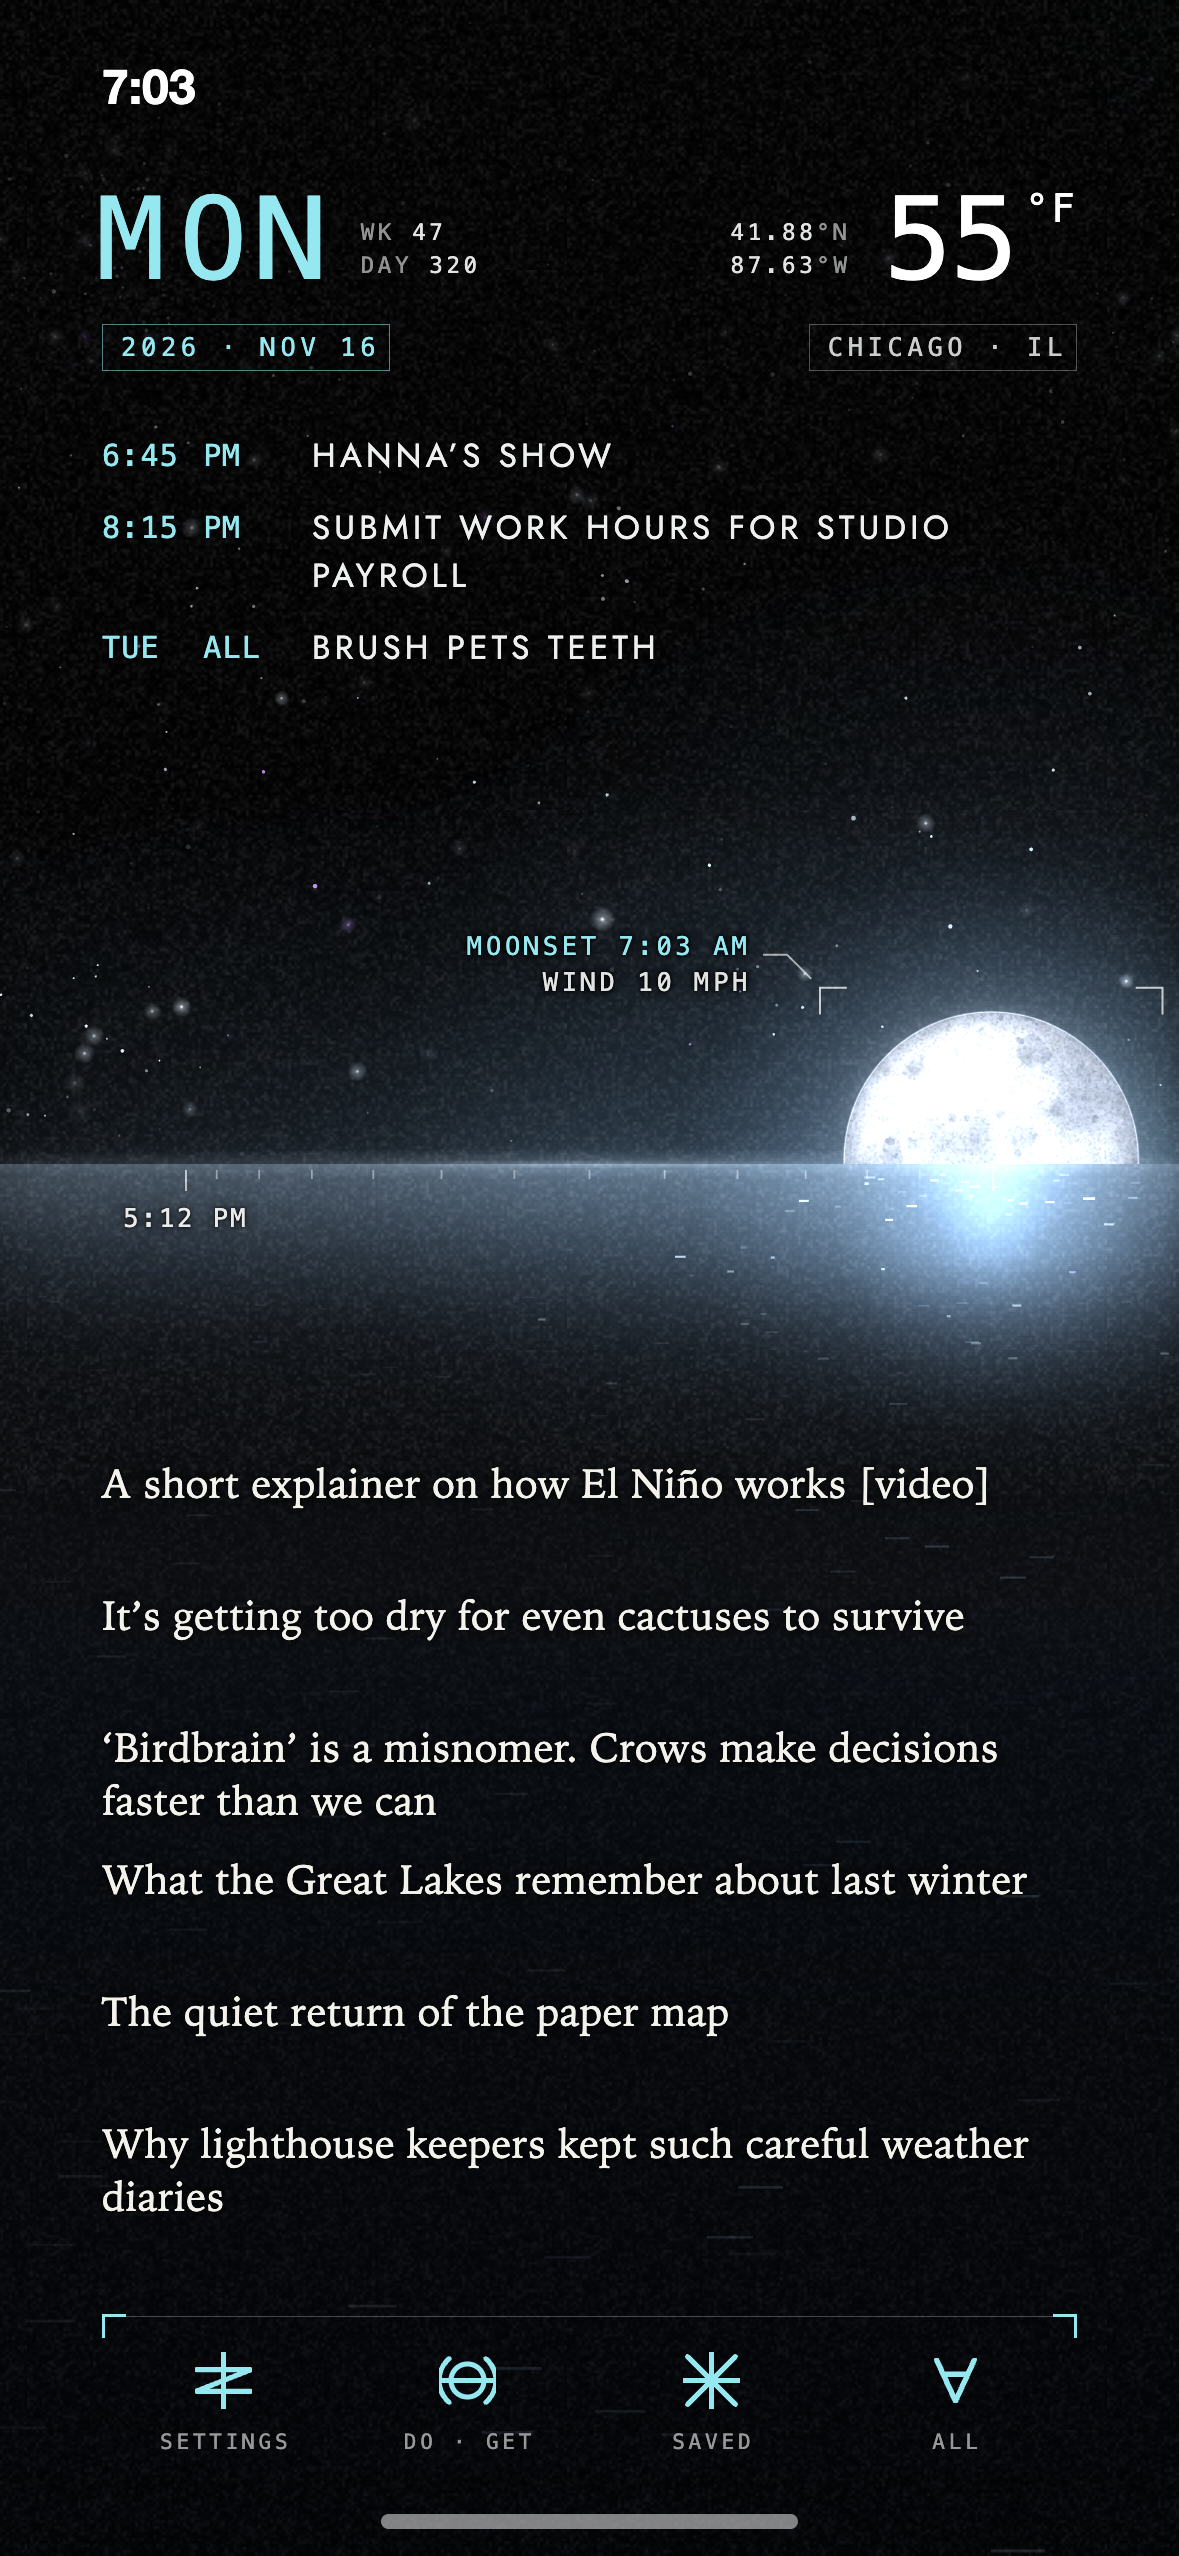
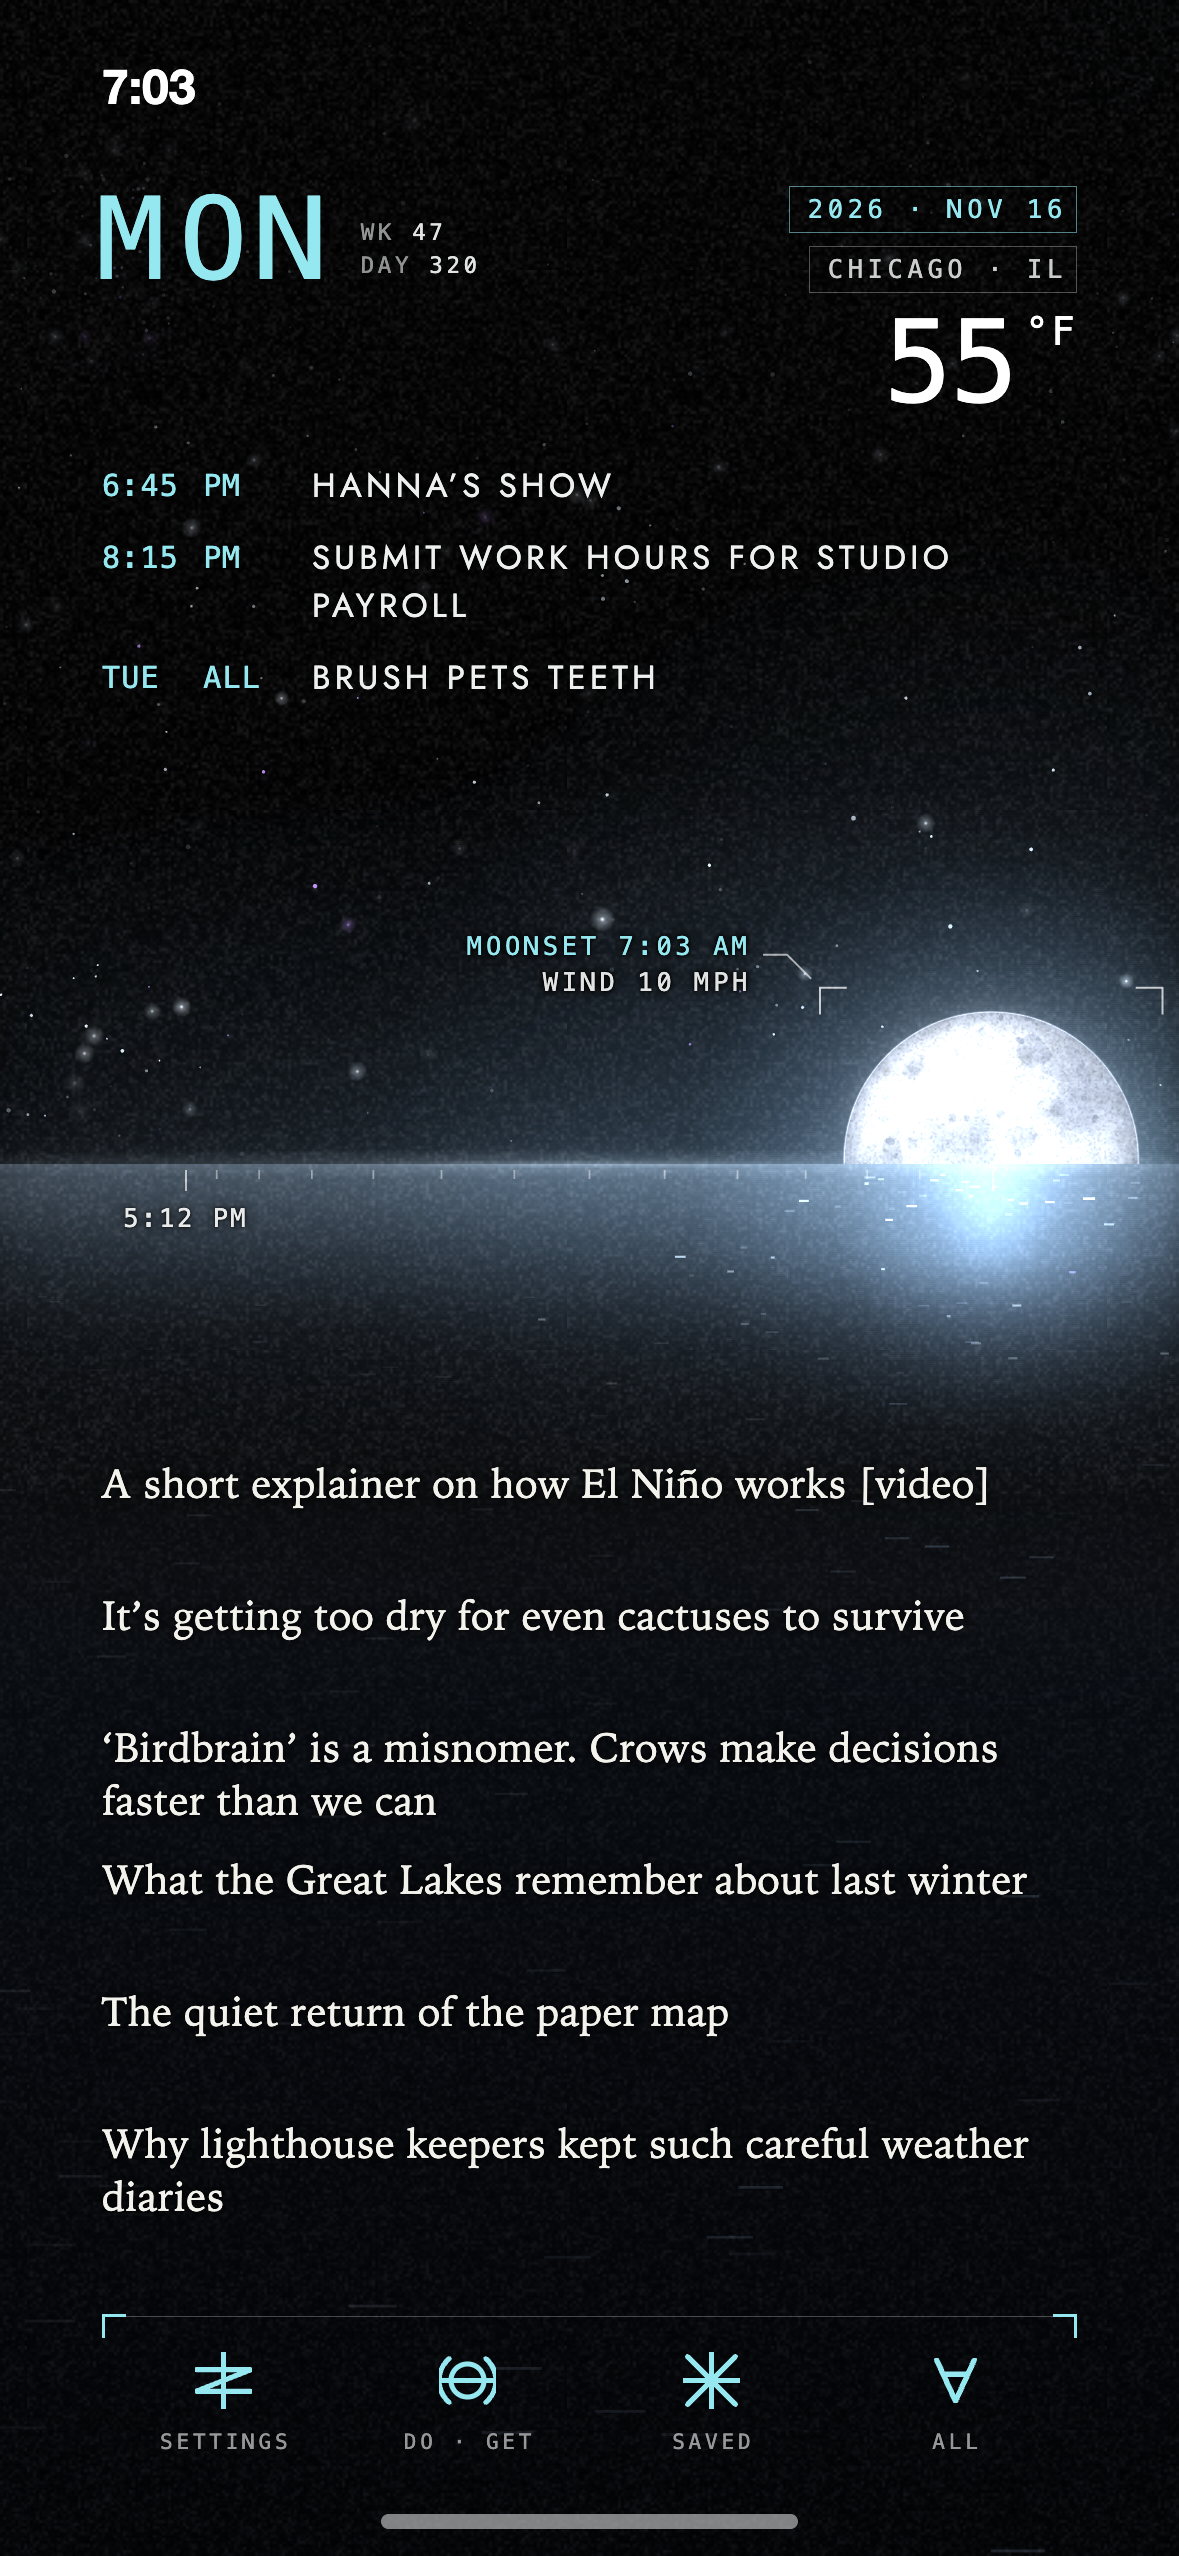
[#105] design-ideas/v8-lemuria: right column stacks date, place, temperature; coordinates removed

diff --git a/design-ideas/v8-lemuria/index.html b/design-ideas/v8-lemuria/index.html
@@ -34,18 +34,18 @@
 
   /* the header, as an instrument read-out: two large mono read-outs (day, temperature), each with a small
      two-line note beside it (week and day of the year; latitude and longitude); under them two boxed labels (date, place) */
-  .date, .place { top: 108px; font-family: ui-monospace, "SF Mono", Menlo, monospace; font-size: 8.5px; line-height: 11px; letter-spacing: .18em; white-space: nowrap; padding: 2px 3px 2px 6px; }
-  .date { left: 34px; color: rgb(var(--amber)); border: .5px solid rgba(var(--amber), .55); }
-  .place { right: 34px; color: rgba(238,240,240,.85); border: .5px solid rgba(255,255,255,.3); }
+  .date, .place { right: 34px; font-family: ui-monospace, "SF Mono", Menlo, monospace; font-size: 8.5px; line-height: 11px; letter-spacing: .18em; white-space: nowrap; padding: 2px 3px 2px 6px; }
+  .date { top: 62px; color: rgb(var(--amber)); border: .5px solid rgba(var(--amber), .55); }
+  .place { top: 82px; color: rgba(238,240,240,.85); border: .5px solid rgba(255,255,255,.3); }
   .hero { top: 60px; display: flex; align-items: flex-end; gap: 11px; white-space: nowrap; }
-  .hero.l { left: 33px; } .hero.r { right: 34px; flex-direction: row-reverse; text-align: right; }
+  .hero.l { left: 33px; } .hero.r { right: 34px; top: 101px; }
   .hero b { font-family: ui-monospace, "SF Mono", Menlo, monospace; font-weight: 200; font-size: 38px; line-height: 40px; }
   .day { letter-spacing: .1em; margin-right: -.1em; color: rgb(var(--hi)); }
   .temp { color: #fff; text-transform: none; letter-spacing: -.02em; }
   .temp i { font-style: normal; font-size: 13px; line-height: 16px; vertical-align: 19px; margin-left: 3px; font-weight: 400; letter-spacing: .06em; }
   .hero small { font-family: ui-monospace, "SF Mono", Menlo, monospace; font-size: 7.5px; line-height: 11px; letter-spacing: .16em; color: rgba(238,240,240,.6); margin-bottom: 6px; }
   .hero small em { font-style: normal; color: rgba(238,240,240,.95); }
-  .events { left: 34px; top: 144px; width: 325px; margin: 0; padding: 0; list-style: none; font-size: 11px; letter-spacing: .13em; line-height: 16px; text-shadow: 0 0 5px rgba(0,0,0,.9); }
+  .events { left: 34px; top: 154px; width: 325px; margin: 0; padding: 0; list-style: none; font-size: 11px; letter-spacing: .13em; line-height: 16px; text-shadow: 0 0 5px rgba(0,0,0,.9); }
   .events li { display: grid; grid-template-columns: 70px 1fr; margin-bottom: 8px; }
   /* the time is two fixed columns: the hour (or the day, for an all-day event), then AM, PM or ALL, so those always start at the same place */
   .events time { color: rgb(var(--teal)); font-size: 10px; letter-spacing: .04em; display: grid; grid-template-columns: 5.6ch auto; justify-content: start; }
@@ -112,7 +112,7 @@
     <div class="date" id="date">2026 · Nov 16</div>
     <div class="place">Chicago · IL</div>
     <div class="hero l"><b class="day" id="day">Mon</b><small>Wk <em>47</em><br>Day <em>320</em></small></div>
-    <div class="hero r"><b class="temp">55<i>°F</i></b><small><em>41.88</em>°N<br><em>87.63</em>°W</small></div>
+    <div class="hero r"><b class="temp">55<i>°F</i></b></div>
 
     <ul class="events">
       <li><time class="mono"><b>6:45</b><b>PM</b></time><span>Hanna’s show</span></li>

diff --git a/design-ideas/v8-lemuria/README.md b/design-ideas/v8-lemuria/README.md
@@ -26,6 +26,7 @@ The user asked for the part above the horizontal bar to look more technical. It 
 - The day name and the temperature are large light mono read-outs (the thin condensed face is gone).
 - Each has a small two-line note beside it: week and day of the year next to the day (`WK 47`, `DAY 320`), latitude and longitude next to the temperature. All four come from what the app has: the date, and the place found from the zip code.
 - The two boxed labels sit under the read-outs (date under the day, place under the temperature); they were above at first and the user had them moved.
+- **Current arrangement (supersedes the lines above where they differ):** the day name with its week and day-of-year note is at the top left. The right column, right-aligned, stacks the boxed date, the boxed place, and then the temperature. The latitude and longitude note was removed at the user's request. The events start 10 points lower (y 154) to clear the temperature.
 - There is no bar under the header. A hairline, and then a ruler of the week (seven segments, today in ink), were tried there; the user had the ruler removed. The events sit 6 points higher to close the gap.
 
 ## What changed from v7 (first pass)

diff --git a/tasks/0105-design-ideas-v8-lemuria-right-column-sta.md b/tasks/0105-design-ideas-v8-lemuria-right-column-sta.md
@@ -1,0 +1,28 @@
+---
+id: 105
+title: design-ideas/v8-lemuria: right column stacks date, place, then temperature; coordinates removed
+status: review
+owner: lead
+depends_on: []
+created: 2026-11-19T01:07:46Z
+updated: 2026-11-19T01:08:18Z
+---
+
+## Goal
+
+
+## Acceptance criteria
+
+
+## Relevant files
+
+
+## What's been tried
+
+
+## Log
+
+- 2026-11-19T01:07:46Z [lead] created (todo)
+- 2026-11-19T01:07:46Z [lead] status: todo → in-progress — claimed by lead
+- 2026-11-19T01:08:18Z [lead] Right column: date box (y 62), place box (y 82), temperature (y 101); coordinates removed; events to y 154. 12 stills re-rendered, mid-day viewed; README, notes, landing thumbs updated.
+- 2026-11-19T01:08:18Z [lead] status: in-progress → review

diff --git a/memory/notes/2026-11-16-design-ideas.md b/memory/notes/2026-11-16-design-ideas.md
@@ -64,3 +64,5 @@ Third pass (#102), "make the top a little more technical looking": boxed mono da
 The week ruler was removed at the user's request straight after (#103); the header now has no bar.
 
 The boxed date and place labels were then moved below the day and temperature at the user's request (#104).
+
+Then (#105) the user had the right column stacked as boxed date, boxed place, temperature, with the coordinates removed; the day name and its week/day note stay at the top left.
